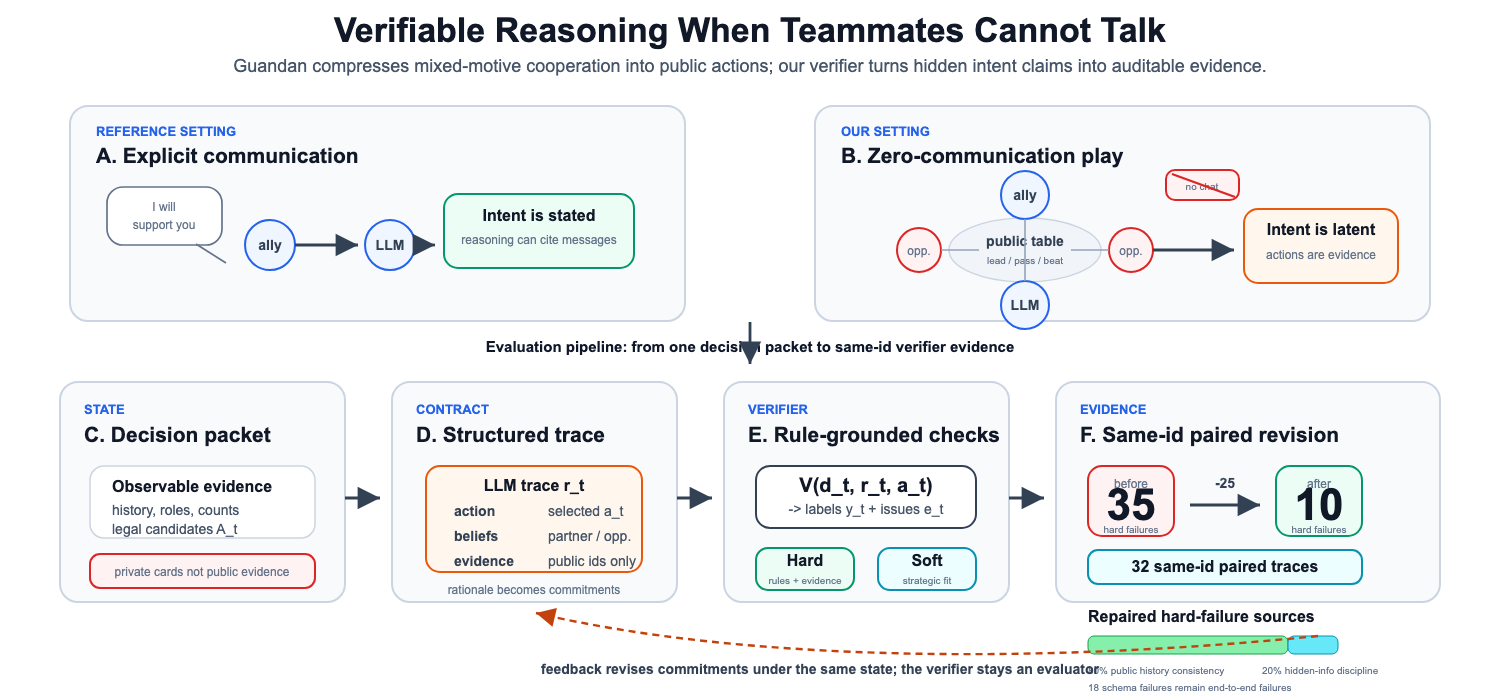
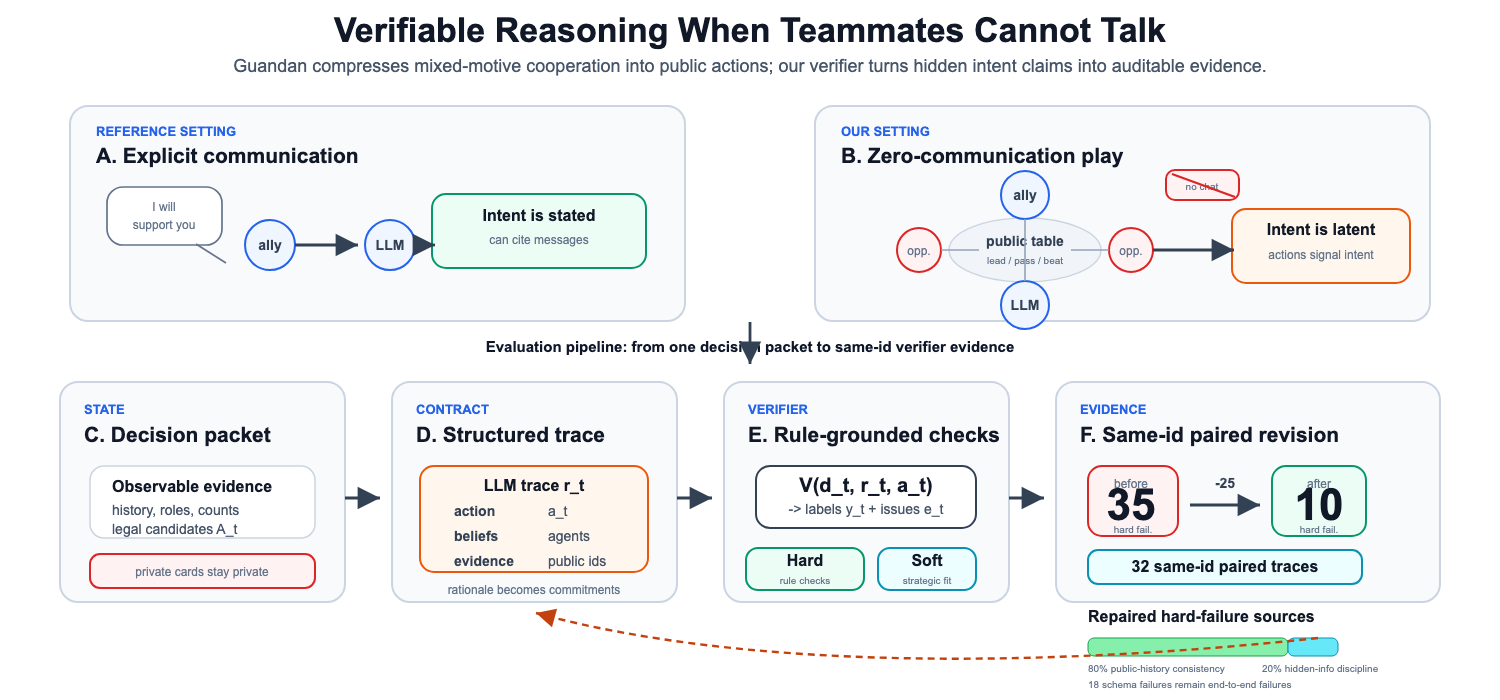
Fix AAMAS figure text overflow

diff --git a/server/src/research/writeFigureArtifactsCli.ts b/server/src/research/writeFigureArtifactsCli.ts
@@ -322,7 +322,7 @@ function renderQualitativeCasePackSvg(attribution: VerifierAttribution): string 
     return renderCaseCard(entry.case, entry.title, x, y)
   }).join('\n')
 
-  return `<svg xmlns="http://www.w3.org/2000/svg" width="1500" height="740" viewBox="0 0 1500 740" role="img" aria-labelledby="title desc">
+  return `<svg xmlns="http://www.w3.org/2000/svg" width="1500" height="760" viewBox="0 0 1500 760" role="img" aria-labelledby="title desc">
   <title id="title">Qualitative verifier-attribution case pack</title>
   <desc id="desc">A four-case visual summary showing two repaired verifier failures, one remaining hard failure, and one parse failure outside the paired revision subset.</desc>
   <defs>
@@ -347,11 +347,11 @@ function renderQualitativeCasePackSvg(attribution: VerifierAttribution): string 
       .source { font: 400 12px Arial, Helvetica, sans-serif; fill: #64748b; }
     </style>
   </defs>
-  <rect width="1500" height="740" fill="#ffffff" />
+  <rect width="1500" height="760" fill="#ffffff" />
   <text x="750" y="46" text-anchor="middle" class="title">Qualitative Case Pack: What the Verifier Repairs and What It Does Not</text>
   <text x="750" y="78" text-anchor="middle" class="subtitle">Selected cases come from the paired attribution artifact; action changes are separated from reasoning-trace repairs</text>
   ${cards}
-  <text x="750" y="712" text-anchor="middle" class="source">Source: ${escapeXml(args.attribution)}</text>
+  <text x="750" y="732" text-anchor="middle" class="source">Source: ${escapeXml(args.attribution)}</text>
 </svg>
 `
 }
@@ -376,7 +376,7 @@ function renderRevisionArchitectureSvg(attribution: VerifierAttribution): string
       .panel-title { font: 700 21px Arial, Helvetica, sans-serif; fill: #111827; }
       .box-title { font: 700 18px Arial, Helvetica, sans-serif; fill: #111827; }
       .text { font: 400 15px Arial, Helvetica, sans-serif; fill: #334155; }
-      .small { font: 400 14px Arial, Helvetica, sans-serif; fill: #64748b; }
+      .small { font: 400 13px Arial, Helvetica, sans-serif; fill: #64748b; }
       .tiny { font: 400 12px Arial, Helvetica, sans-serif; fill: #64748b; }
       .panel { fill: #f8fafc; stroke: #cbd5e1; stroke-width: 2; }
       .decision { fill: #f8fafc; stroke: #94a3b8; stroke-width: 2; }
@@ -411,10 +411,12 @@ function renderRevisionArchitectureSvg(attribution: VerifierAttribution): string
     <text x="135" y="48" text-anchor="middle" class="text">d_t=(p_t,h_t,o_t,A_t,z_t)</text>
     <rect y="80" width="270" height="76" rx="12" class="decision" />
     <text x="135" y="106" text-anchor="middle" class="box-title">Observable evidence</text>
-    <text x="135" y="130" text-anchor="middle" class="small">public history h_t, hand counts, table context</text>
+    <text x="135" y="128" text-anchor="middle" class="small">public history h_t</text>
+    <text x="135" y="146" text-anchor="middle" class="small">hand counts, table context</text>
     <rect y="174" width="270" height="64" rx="12" class="fail" />
     <text x="135" y="199" text-anchor="middle" class="box-title">Evidence boundary</text>
-    <text x="135" y="222" text-anchor="middle" class="small">hidden cards cannot be cited as public facts</text>
+    <text x="135" y="220" text-anchor="middle" class="small">hidden cards cannot be cited</text>
+    <text x="135" y="238" text-anchor="middle" class="small">as public facts</text>
     <rect y="256" width="270" height="52" rx="12" class="metric" />
     <text x="135" y="288" text-anchor="middle" class="text">dynamic legal candidates A_t</text>
   </g>
@@ -429,7 +431,8 @@ function renderRevisionArchitectureSvg(attribution: VerifierAttribution): string
     <text x="135" y="174" text-anchor="middle" class="small">opponent belief + evidence ids</text>
     <text x="135" y="198" text-anchor="middle" class="small">rationale, risk, confidence</text>
     <rect y="254" width="270" height="54" rx="12" class="metric" />
-    <text x="135" y="287" text-anchor="middle" class="text">schema gate: parseable traces enter audit</text>
+    <text x="135" y="279" text-anchor="middle" class="small">schema gate:</text>
+    <text x="135" y="297" text-anchor="middle" class="small">parseable traces enter audit</text>
   </g>
 
   <g transform="translate(806,182)">
@@ -438,12 +441,15 @@ function renderRevisionArchitectureSvg(attribution: VerifierAttribution): string
     <text x="135" y="50" text-anchor="middle" class="text">V(d_t,r_t,a_t) -> (y_t,e_t)</text>
     <rect y="86" width="270" height="74" rx="12" class="artifact" />
     <text x="135" y="112" text-anchor="middle" class="box-title">Hard labels</text>
-    <text x="135" y="136" text-anchor="middle" class="small">legal action, beats table, public history, hidden-info</text>
+    <text x="135" y="132" text-anchor="middle" class="small">legal action, beats table</text>
+    <text x="135" y="150" text-anchor="middle" class="small">public history, hidden-info</text>
     <rect y="178" width="270" height="74" rx="12" class="metric" />
     <text x="135" y="204" text-anchor="middle" class="box-title">Soft labels</text>
-    <text x="135" y="228" text-anchor="middle" class="small">partner/opponent consistency, objective, reason-action</text>
-    <rect y="270" width="270" height="38" rx="11" class="decision" />
-    <text x="135" y="294" text-anchor="middle" class="small">diagnoses commitments; never chooses the move</text>
+    <text x="135" y="224" text-anchor="middle" class="small">partner/opponent consistency</text>
+    <text x="135" y="242" text-anchor="middle" class="small">objective, reason-action</text>
+    <rect y="270" width="270" height="50" rx="11" class="decision" />
+    <text x="135" y="292" text-anchor="middle" class="small">diagnoses commitments;</text>
+    <text x="135" y="310" text-anchor="middle" class="small">never chooses the move</text>
   </g>
 
   <g transform="translate(1174,182)">
@@ -452,7 +458,7 @@ function renderRevisionArchitectureSvg(attribution: VerifierAttribution): string
     <text x="128" y="45" text-anchor="middle" class="small">labels y_t + issue codes e_t</text>
     <rect y="76" width="256" height="58" rx="12" class="model" />
     <text x="128" y="100" text-anchor="middle" class="box-title">Bounded revision</text>
-    <text x="128" y="121" text-anchor="middle" class="small">same state d_t, repaired trace r1</text>
+    <text x="128" y="121" text-anchor="middle" class="small">same state; repaired trace</text>
     <rect y="152" width="256" height="58" rx="12" class="verifier" />
     <text x="128" y="176" text-anchor="middle" class="box-title">Recheck</text>
     <text x="128" y="197" text-anchor="middle" class="small">same labels, same decision id</text>
@@ -537,9 +543,9 @@ function renderVerifierPipelineSvg(attribution: VerifierAttribution): string {
   <text x="270" y="250" text-anchor="middle" class="label">ally</text>
   <circle cx="390" cy="245" r="25" class="blue" />
   <text x="390" y="250" text-anchor="middle" class="label">LLM</text>
-  <rect x="444" y="194" width="190" height="74" rx="14" class="green" />
+  <rect x="432" y="194" width="214" height="74" rx="14" class="green" />
   <text x="539" y="221" text-anchor="middle" class="box-title">Intent is stated</text>
-  <text x="539" y="244" text-anchor="middle" class="small">reasoning can cite messages</text>
+  <text x="539" y="244" text-anchor="middle" class="small">can cite messages</text>
   <path d="M295,245 H358" class="line" />
   <path d="M415,245 H435" class="line" />
 
@@ -563,9 +569,9 @@ function renderVerifierPipelineSvg(attribution: VerifierAttribution): string {
   <rect x="1166" y="170" width="73" height="30" rx="9" class="red" />
   <text x="1202" y="190" text-anchor="middle" class="tiny">no chat</text>
   <path d="M1172,174 L1235,197" stroke="#dc2626" stroke-width="2.3" />
-  <rect x="1244" y="209" width="154" height="74" rx="14" class="orange" />
+  <rect x="1232" y="209" width="178" height="74" rx="14" class="orange" />
   <text x="1321" y="235" text-anchor="middle" class="box-title">Intent is latent</text>
-  <text x="1321" y="259" text-anchor="middle" class="small">actions are evidence</text>
+  <text x="1321" y="259" text-anchor="middle" class="small">actions signal intent</text>
   <path d="M1153,250 H1234" class="line" />
 
   <text x="750" y="352" text-anchor="middle" class="stageLabel">Evaluation pipeline: from one decision packet to same-id verifier evidence</text>
@@ -579,19 +585,19 @@ function renderVerifierPipelineSvg(attribution: VerifierAttribution): string {
   <text x="112" y="515" class="text">history, roles, counts</text>
   <text x="112" y="534" class="text">legal candidates A_t</text>
   <rect x="90" y="554" width="225" height="34" rx="10" class="red" />
-  <text x="202" y="576" text-anchor="middle" class="small">private cards not public evidence</text>
+  <text x="202" y="576" text-anchor="middle" class="small">private cards stay private</text>
 
   <rect x="392" y="382" width="285" height="220" rx="18" class="panel" />
   <text x="416" y="414" class="kicker">CONTRACT</text>
   <text x="416" y="442" class="panel-title">D. Structured trace</text>
-  <rect x="426" y="466" width="216" height="106" rx="14" class="orange" />
+  <rect x="420" y="466" width="228" height="106" rx="14" class="orange" />
   <text x="534" y="491" text-anchor="middle" class="box-title">LLM trace r_t</text>
   <text x="454" y="516" class="label">action</text>
-  <text x="548" y="516" class="text">selected a_t</text>
+  <text x="548" y="516" class="text">a_t</text>
   <text x="454" y="541" class="label">beliefs</text>
-  <text x="548" y="541" class="text">partner / opp.</text>
+  <text x="548" y="541" class="text">agents</text>
   <text x="454" y="566" class="label">evidence</text>
-  <text x="548" y="566" class="text">public ids only</text>
+  <text x="548" y="566" class="text">public ids</text>
   <text x="534" y="594" text-anchor="middle" class="small">rationale becomes commitments</text>
 
   <rect x="724" y="382" width="285" height="220" rx="18" class="panel" />
@@ -600,9 +606,9 @@ function renderVerifierPipelineSvg(attribution: VerifierAttribution): string {
   <rect x="756" y="466" width="220" height="62" rx="14" fill="#ffffff" stroke="#334155" stroke-width="2" />
   <text x="866" y="492" text-anchor="middle" class="formula">V(d_t, r_t, a_t)</text>
   <text x="866" y="514" text-anchor="middle" class="text">-> labels y_t + issues e_t</text>
-  <rect x="756" y="548" width="98" height="42" rx="12" class="green" />
+  <rect x="746" y="548" width="118" height="42" rx="12" class="green" />
   <text x="805" y="566" text-anchor="middle" class="box-title">Hard</text>
-  <text x="805" y="584" text-anchor="middle" class="tiny">rules + evidence</text>
+  <text x="805" y="584" text-anchor="middle" class="tiny">rule checks</text>
   <rect x="878" y="548" width="98" height="42" rx="12" class="cyan" />
   <text x="927" y="566" text-anchor="middle" class="box-title">Soft</text>
   <text x="927" y="584" text-anchor="middle" class="tiny">strategic fit</text>
@@ -610,30 +616,29 @@ function renderVerifierPipelineSvg(attribution: VerifierAttribution): string {
   <rect x="1056" y="382" width="384" height="220" rx="18" class="panel" />
   <text x="1080" y="414" class="kicker">EVIDENCE</text>
   <text x="1080" y="442" class="panel-title">F. Same-id paired revision</text>
-  <rect x="1088" y="466" width="86" height="70" rx="14" class="red" />
+  <rect x="1088" y="466" width="90" height="70" rx="14" class="red" />
   <text x="1131" y="488" text-anchor="middle" class="small">before</text>
   <text x="1131" y="520" text-anchor="middle" class="bigMetric">${attribution.hardFailureAttribution.beforeHardFailureCount}</text>
-  <text x="1131" y="533" text-anchor="middle" class="tiny">hard failures</text>
+  <text x="1133" y="533" text-anchor="middle" class="tiny">hard fail.</text>
   <path d="M1190,505 H1260" class="line" />
   <text x="1225" y="488" text-anchor="middle" class="label">-${removedHardFailures}</text>
-  <rect x="1276" y="466" width="86" height="70" rx="14" class="green" />
+  <rect x="1272" y="466" width="94" height="70" rx="14" class="green" />
   <text x="1319" y="488" text-anchor="middle" class="small">after</text>
   <text x="1319" y="520" text-anchor="middle" class="bigMetric">${attribution.hardFailureAttribution.afterHardFailureCount}</text>
-  <text x="1319" y="533" text-anchor="middle" class="tiny">hard failures</text>
+  <text x="1319" y="533" text-anchor="middle" class="tiny">hard fail.</text>
   <rect x="1088" y="550" width="274" height="34" rx="10" class="cyan" />
   <text x="1225" y="572" text-anchor="middle" class="box-title">${attribution.pairedDecisionCount} same-id paired traces</text>
   <text x="1088" y="622" class="box-title">Repaired hard-failure sources</text>
-  <rect x="1088" y="636" width="${publicWidth}" height="18" rx="6" fill="#86efac" stroke="#16a34a" />
-  <rect x="${1088 + publicWidth}" y="636" width="${hiddenWidth}" height="18" rx="6" fill="#67e8f9" stroke="#0891b2" />
-  <text x="1088" y="674" class="tiny">${publicShare}% public history consistency</text>
-  <text x="1262" y="674" class="tiny">${hiddenShare}% hidden-info discipline</text>
-  <text x="1088" y="691" class="tiny">${attribution.excludedParseFailureCount} schema failures remain end-to-end failures</text>
+  <rect x="1088" y="638" width="${publicWidth}" height="18" rx="6" fill="#86efac" stroke="#16a34a" />
+  <rect x="${1088 + publicWidth}" y="638" width="${hiddenWidth}" height="18" rx="6" fill="#67e8f9" stroke="#0891b2" />
+  <text x="1088" y="672" class="tiny">${publicShare}% public-history consistency</text>
+  <text x="1262" y="672" class="tiny">${hiddenShare}% hidden-info discipline</text>
+  <text x="1088" y="688" class="tiny">${attribution.excludedParseFailureCount} schema failures remain end-to-end failures</text>
 
   <path d="M345,498 H380" class="line" />
   <path d="M677,498 H712" class="line" />
   <path d="M1009,498 H1044" class="line" />
-  <path d="M1318,636 C1040,664 744,662 536,613" class="feedback" />
-  <text x="820" y="674" text-anchor="middle" class="label">feedback revises commitments under the same state; the verifier stays an evaluator</text>
+  <path d="M1318,638 C1040,668 744,670 536,613" class="feedback" />
 </svg>
 `
 }
@@ -660,7 +665,7 @@ function renderMainPilotResultsSvg(summary: PilotSummary, repair: RepairMetrics,
     const y = chartY + chartHeight - parsedHeight
     const percent = formatPercent(row.parseYield)
     const schemaFailures = row.total - row.parsed
-    const schemaFailureLabel = schemaFailures > 0 ? `${schemaFailures} schema fail` : '0 schema fail'
+    const schemaFailureLabel = schemaFailures > 0 ? `fail ${schemaFailures}` : 'fail 0'
     return `<g>
       <rect x="${x}" y="${chartY}" width="${barWidth}" height="${Math.max(failureHeight, 0)}" rx="8" fill="#fde68a" stroke="#f59e0b" opacity="0.80" />
       <rect x="${x}" y="${y}" width="${barWidth}" height="${parsedHeight}" rx="8" fill="#2563eb" opacity="0.88" />
@@ -799,7 +804,7 @@ function getMainResultRows(summary: PilotSummary, repair: RepairMetrics): Array<
   const repairRow = {
     agentId: 'tom-schema-repair',
     label: 'ToM + schema repair',
-    shortLabel: 'ToM+repair',
+    shortLabel: 'Repair',
     parsed: repair.totalParsedTraces,
     total: repair.totalDecisionPoints,
     parseYield: repair.totalDecisionPoints === 0 ? 0 : repair.totalParsedTraces / repair.totalDecisionPoints,
@@ -859,7 +864,7 @@ function renderCaseCard(qualitativeCase: QualitativeCase, title: string, x: numb
     ? 'not revision-eligible'
     : qualitativeCase.actionChanged
       ? 'action changed'
-      : 'action unchanged'
+      : 'action same'
   const beforeTitle = qualitativeCase.caseType === 'parse_failure_outside_revision'
     ? 'raw output'
     : 'before'
@@ -885,7 +890,7 @@ function renderCaseCard(qualitativeCase: QualitativeCase, title: string, x: numb
     : qualitativeCase.caseType === 'public_history_repaired'
       ? ['no issues', 'partner repaired', actionLine]
       : qualitativeCase.caseType === 'hidden_info_repaired'
-        ? ['no issues', 'hidden-info repaired', actionLine]
+        ? ['no issues', 'hidden info fixed', actionLine]
         : qualitativeCase.caseType === 'remaining_hard_failure'
           ? ['unknown public id', 'public history fails', actionLine]
     : [

diff --git a/server/src/research/writeFigureArtifactsCli.test.ts b/server/src/research/writeFigureArtifactsCli.test.ts
@@ -237,6 +237,7 @@ describe('writeFigureArtifactsCli', () => {
       expect(pipelineMarkdown).toContain('| C | Trace contract and verifier |')
       expect(pipelineMarkdown).toContain('| D | Paired evidence accounting |')
       const pipelineSvg = readFileSync(join(outDir, 'figure-1-verifier-pipeline.svg'), 'utf8')
+      expect(pipelineSvg).toContain('width="1500" height="700"')
       expect(pipelineSvg).toContain('Verifiable Reasoning When Teammates Cannot Talk')
       expect(pipelineSvg).toContain('A. Explicit communication')
       expect(pipelineSvg).toContain('B. Zero-communication play')
@@ -247,9 +248,9 @@ describe('writeFigureArtifactsCli', () => {
       expect(pipelineSvg).toContain('F. Same-id paired revision')
       expect(pipelineSvg).toContain('V(d_t, r_t, a_t)')
       expect(pipelineSvg).toContain('labels y_t + issues e_t')
-      expect(pipelineSvg).toContain('public history')
+      expect(pipelineSvg).toContain('public-history')
       expect(pipelineSvg).toContain('hidden-info')
-      expect(pipelineSvg).toContain('hard failures')
+      expect(pipelineSvg).toContain('hard-failure')
       const mainResultsSvg = readFileSync(join(outDir, 'figure-4-main-pilot-results.svg'), 'utf8')
       expect(mainResultsSvg).toContain('A. End-to-end parse yield')
       expect(mainResultsSvg).toContain('B. Paired verifier revision')
@@ -262,6 +263,7 @@ describe('writeFigureArtifactsCli', () => {
       expect(revisionSvg).toContain('D. Same-id revision')
       expect(revisionSvg).toContain('hard failures 35 to 10')
       const qualitativeSvg = readFileSync(join(outDir, 'figure-5-qualitative-case-pack.svg'), 'utf8')
+      expect(qualitativeSvg).toContain('width="1500" height="760"')
       expect(qualitativeSvg).toContain('Qualitative Case Pack')
       expect(qualitativeSvg).toContain('A. Public-history repair')
       expect(qualitativeSvg).toContain('B. Hidden-information repair')

diff --git a/docs/research/submission/reproducibility-manifest.md b/docs/research/submission/reproducibility-manifest.md
@@ -1,6 +1,6 @@
 # Reproducibility Manifest
 
-Generated at: `2026-06-20T02:49:50.818Z`
+Generated at: `2026-06-20T18:46:47.662Z`
 
 Missing entries are audit findings, not experimental results. Pending entries are expected external-evidence gaps tracked by readiness gates.
 
@@ -36,10 +36,10 @@ Missing entries are audit findings, not experimental results. Pending entries ar
[14 lines of base64/hex data omitted]
@@ -114,16 +114,16 @@ Missing entries are audit findings, not experimental results. Pending entries ar
[21 lines of base64/hex data omitted]
@@ -135,17 +135,17 @@ Missing entries are audit findings, not experimental results. Pending entries ar
[25 lines of base64/hex data omitted]

diff --git a/docs/research/submission/aamas-latex/build-status.md b/docs/research/submission/aamas-latex/build-status.md
@@ -1,6 +1,6 @@
 # AAMAS LaTeX Build Status
 
-Date: 2026-06-19
+Date: 2026-06-21
 
 ## Current Build
 
@@ -17,6 +17,7 @@ Date: 2026-06-19
 - Red line numbers appear because the draft uses the `review` option.
 - Table and figure placement was checked from rendered PNG pages under `submission/aamas-latex/page-renders/`; the latest pass used PyMuPDF because `pdftoppm` was not installed locally.
 - Figure 1 now functions as the front-door teaser with a two-layer accepted-paper-style structure: the top layer contrasts explicit communication with zero-communication Guandan team play, and the bottom layer traces decision packet -> structured trace -> rule-grounded verifier -> same-id paired evidence. Rendered page 2 was refreshed after the update; no text clipping or page-count change was observed, and the draft remains 9 pages.
+- A follow-up figure overflow QA pass shortened and reflowed in-box labels across Figures 1, 2, 4, and 5. The SVG text-overflow heuristic reports 0 candidate overflow issues, Figure 1 was re-rendered to PNG at the original 1500x700 aspect ratio, page 2 was visually checked from the rebuilt PDF, and the draft remains 9 pages.
 - Figure 2 now uses a full-width four-panel trace-contract verifier architecture diagram: decision-point evidence, structured trace contract, verifier label map, and same-id revision accounting. Rendered page 5 was refreshed and checked for arrow/label overlap, awkward line breaks, and page-count stability; the draft remains 9 pages.
 - The old page-4 pipeline figure was removed rather than duplicated, keeping the draft at 9 total pages.
 - The qualitative case table was replaced with Figure 5, a two-by-two verifier-attribution case-flow diagram showing two repaired semantic failures, one unrepaired hard failure, and one schema failure outside the paired subset. Rendered page 8 was refreshed and visually checked after shortening in-panel notes and confirming that the draft remains 9 pages.

diff --git a/docs/research/submission/aamas-readiness/aamas-readiness-report.md b/docs/research/submission/aamas-readiness/aamas-readiness-report.md
@@ -1,6 +1,6 @@
 # AAMAS Full-Paper Readiness Report
 
-Generated at: `2026-06-20T02:49:49.217Z`
+Generated at: `2026-06-20T18:46:46.069Z`
 
 Paper: **Verifiable Multi-Agent Reasoning for LLM Agents in Zero-Communication Mixed-Motive Games**
 

diff --git a/docs/research/submission/aamas-reviewer-response/aamas-reviewer-response-matrix.md b/docs/research/submission/aamas-reviewer-response/aamas-reviewer-response-matrix.md
@@ -1,6 +1,6 @@
 # AAMAS Reviewer-Response Matrix
 
-Generated at: `2026-06-20T02:49:50.026Z`
+Generated at: `2026-06-20T18:46:46.865Z`
 
 Paper: **Verifiable Multi-Agent Reasoning for LLM Agents in Zero-Communication Mixed-Motive Games**
 

diff --git a/docs/research/submission/aamas-self-review/aamas-self-review-report.md b/docs/research/submission/aamas-self-review/aamas-self-review-report.md
@@ -1,6 +1,6 @@
 # AAMAS Adversarial Self-Review Report
 
-Generated at: `2026-06-20T02:49:49.618Z`
+Generated at: `2026-06-20T18:46:46.467Z`
 
 Paper: **Verifiable Multi-Agent Reasoning for LLM Agents in Zero-Communication Mixed-Motive Games**
 

diff --git a/docs/research/submission/finalizer/aamas-submission-finalizer-report.md b/docs/research/submission/finalizer/aamas-submission-finalizer-report.md
@@ -1,6 +1,6 @@
 # AAMAS Submission Finalizer Report
 
-Generated at: `2026-06-20T02:49:50.951Z`
+Generated at: `2026-06-20T18:46:47.846Z`
 
 Status: `needs_revision`
 Submission readiness: `not_ready`

diff --git a/docs/research/submission/human-audit-evidence-gate/human-audit-evidence-gate.md b/docs/research/submission/human-audit-evidence-gate/human-audit-evidence-gate.md
@@ -1,6 +1,6 @@
 # Human Audit Evidence Gate
 
-Generated at: `2026-06-20T02:49:48.008Z`
+Generated at: `2026-06-20T18:46:45.101Z`
 
 Status: `awaiting_returns`
 

diff --git a/docs/research/submission/human-audit-launch/human-audit-launch-checklist.md b/docs/research/submission/human-audit-launch/human-audit-launch-checklist.md
@@ -1,6 +1,6 @@
 # Human Audit Launch Checklist
 
-Generated at: `2026-06-20T02:49:47.533Z`
+Generated at: `2026-06-20T18:46:44.685Z`
 
 Status: `ready_to_send`
 Ready for annotation: `true`

diff --git a/docs/research/submission/preflight/research-preflight-report.md b/docs/research/submission/preflight/research-preflight-report.md
@@ -1,7 +1,7 @@
 # Research Preflight Report
 
 Status: `research_not_ready`
-Generated at: `2026-06-20T02:49:50.424Z`
+Generated at: `2026-06-20T18:46:47.261Z`
 
 Submission gate: `ready`
 Local ready: `true`